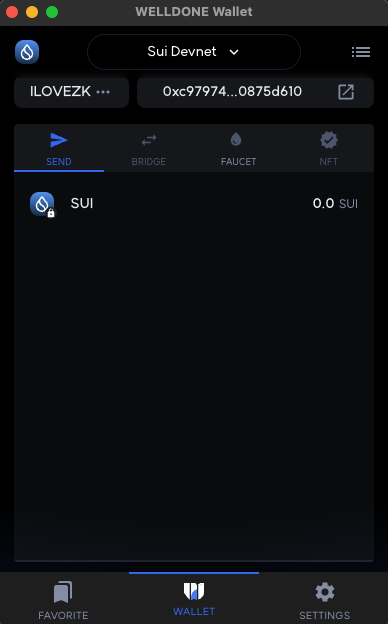
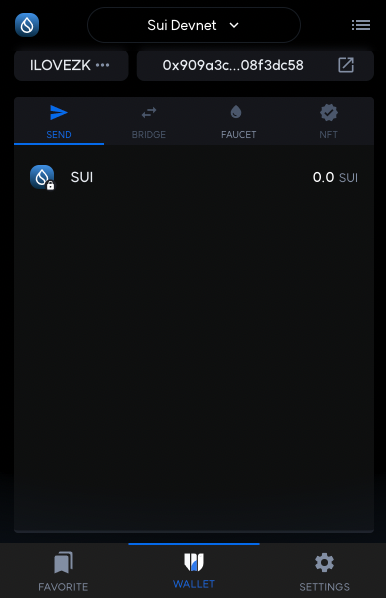
update zkwallet tutorial

Changed region(s): [[0.0, 0.0, 1.0, 0.3612], [0.0, 0.903, 1.0, 0.9933], [0.9948, 0.9933, 1.0, 1.0]]

diff --git a/docs/tutorials/sui-zklogin/index.md b/docs/tutorials/sui-zklogin/index.md
@@ -27,10 +27,12 @@ The evolution of blockchain technology is presenting new requirements for user i
 
 The way WELLDONE zkWallet integrates Sui's zkLogin feature offers a structural approach that simultaneously enhances the accessibility and security of blockchain technology. This integration is achieved in the following ways:
 
-1. **Separate Webpage Integration**: WELLDONE zkWallet provides a separate webpage that allows users to choose and connect to various browser extension wallets. This webpage is directly integrated with Sui's zkLogin feature, enabling users to access blockchain services using their existing Web2 credentials.
-2. **Zero-Knowledge Proof Mechanism**: The core of zkLogin is its zero-knowledge proof technology. This technology conceals users' identity information while allowing safe access to blockchain services. Users can access services without revealing their identity, fully protecting their personal information.
-3. **Dual Authentication Mechanism**: WELLDONE zkWallet combines wallet key management with OAuth authentication to provide a dual-layer of security. Users must satisfy both elements to access their wallet: the wallet's private key and authentication through an OAuth provider. This dual authentication approach offers much stronger security than single-factor methods.
-4. **Simplified User Interface**: The web interface of WELLDONE zkWallet is user-friendly and intuitive. Users can access their wallet through their web account with just a few clicks, offering convenience while maintaining security.
+1. **Separate Webpage Integration**: WELLDONE zkWallet provides a separate webpage that allows users to choose and connect various browser extension wallets. This webpage is directly integrated with Sui's zkLogin feature, enabling users to access blockchain services using their existing Web2 credentials.
+2. **Zero-Knowledge Proof Mechanism**: The core of zkLogin is the zero-knowledge proof technology. This technology allows users to access blockchain services securely while keeping their identity information hidden. Users can access services without revealing their identity, and this process fully protects their personal information.
+3. **Dual Authentication Mechanism**: WELLDONE zkWallet combines wallet key management with OAuth authentication to provide a dual security layer. Users must satisfy both elements to access their wallet: the private key of the wallet and the dual authentication approach through an OAuth provider. This offers much stronger security than single-factor authentication methods. Particularly, WELLDONE zkWallet provides an additional security mechanism by separating and storing the Web2 credential tokens and ephemeral key pairs through its web interface.
+4. **Compatibility with Various Wallets**: WELLDONE zkWallet is standardized and designed to be compatible with various browser extension wallets. Wallet developers do not need additional development to use zkLogin, and users can choose from a variety of wallet options according to their preference, meeting a wider range of user needs.
+5. **Simplified User Interface**: The web interface of WELLDONE zkWallet is user-friendly and intuitive. Users can access their wallet through their web account with just a few clicks, providing convenience while maintaining security.
+6. **Seamless Integration with Dapps**: WELLDONE zkWallet supports direct interaction with various decentralized applications (Dapps). This allows users to use Dapps more efficiently through their web wallets. Information about interacting with Dapps can be found in [this document](https://docs.welldonestudio.io/wallet/zkWallet).
 
 This structural approach reduces the complexity of blockchain technology, making it easier for users to understand and utilize. The integration of WELLDONE zkWallet focuses on enabling users to use blockchain technology easily and safely, without worrying about technical barriers. We will now take a closer look through the following tutorial.
 
@@ -67,6 +69,10 @@ This structural approach reduces the complexity of blockchain technology, making
 The process outlined above can be summarized as follows:
 
 <img src={require('./img/process.png').default} alt='process' style={{marginBottom: '30px'}}/>
+
+Additionally, as shown in the image below, the "Add Wallet" feature allows the creation of multiple account addresses. This is possible because changing only the User's Salt can generate multiple account addresses with a single JWT. However, to prevent potential abuse such as making multiple requests with the same JWT, Mysten Labs' Proving server currently blocks requests for a certain period of time for the same JWT. Therefore, at present, it is possible to create additional accounts only one hour after the creation of the first account.
+
+<img src={require('./img/add-wallet.png').default} alt='add-wallet' style={{marginBottom: '30px'}}/>
 
 For detailed explanations of the terminology and internal workings, refer to the [Sui documentation](https://docs.sui.io/concepts/cryptography/zklogin).
 
